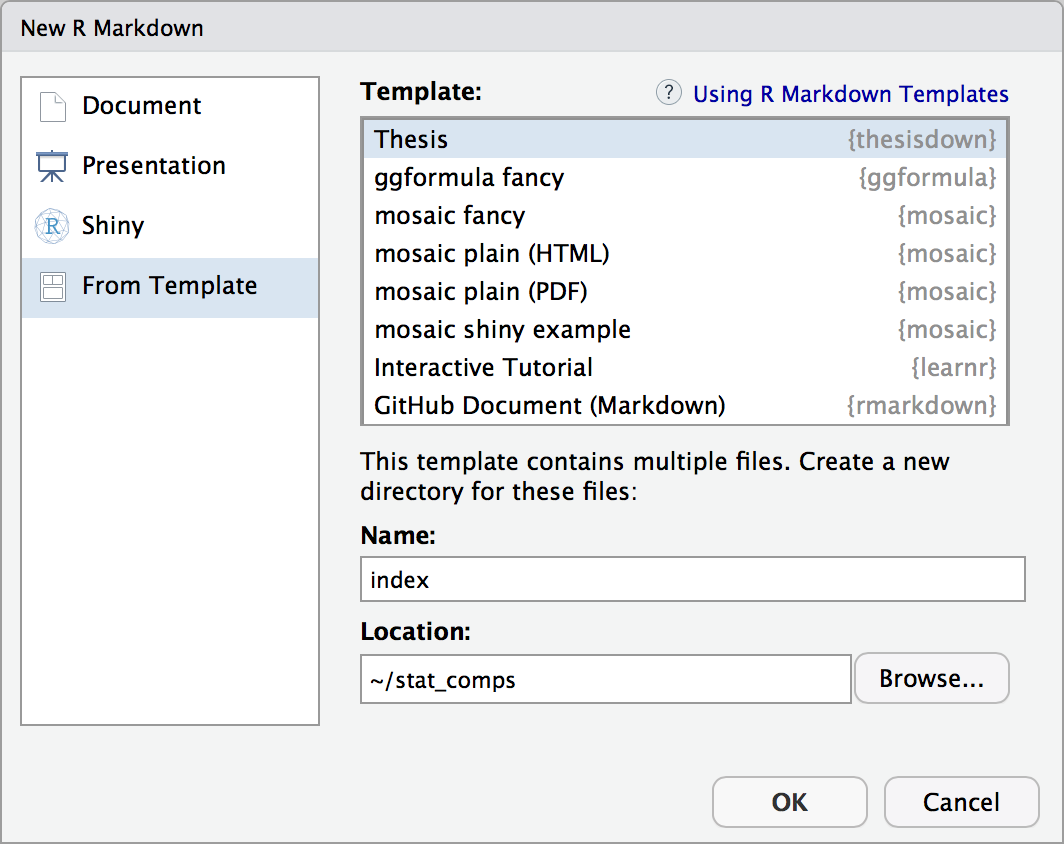
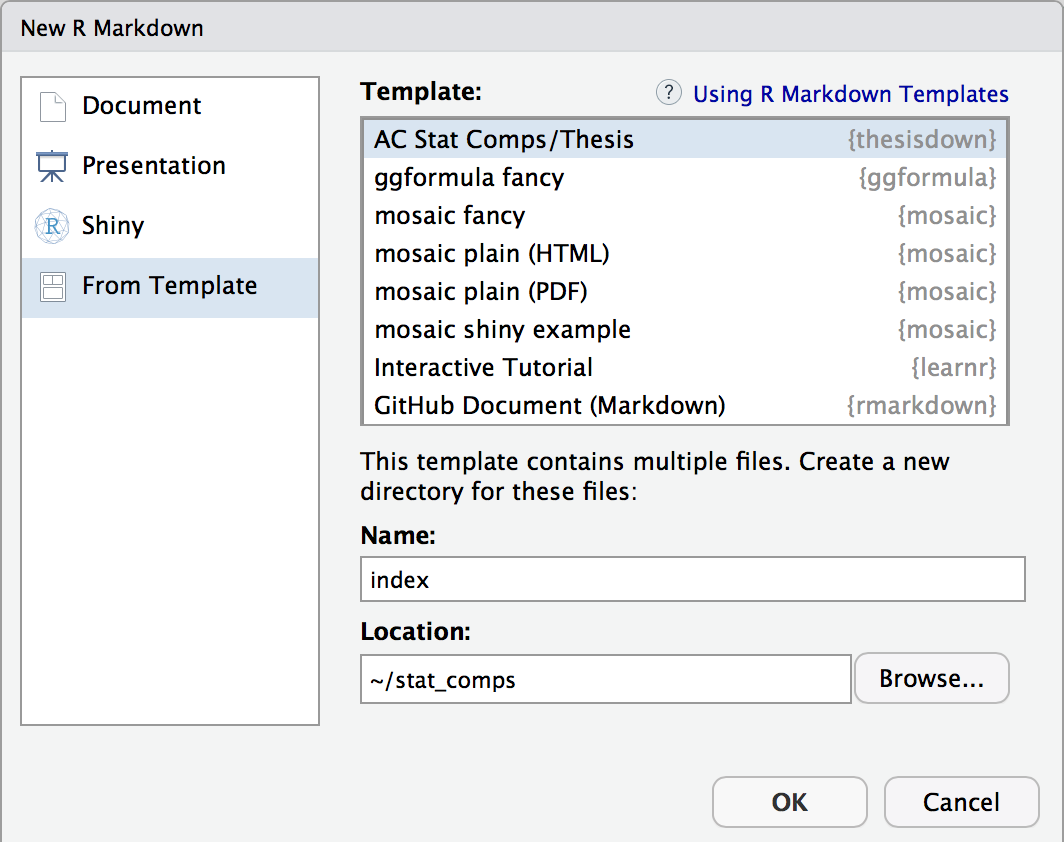
Fixed template name

diff --git a/README.md b/README.md
@@ -28,7 +28,7 @@ install.packages("bookdown")
 devtools::install_github("Amherst-Statistics/thesisdown")
 ```
 
-3. Use the **New R Markdown** dialog to select **Thesis** (note that this will currently only **Knit** if you name the directory `index` as shown below):
+3. Use the **New R Markdown** dialog to select **AC Stat Comps/Thesis** (note that this will currently only **Knit** if you name the directory `index` as shown below):
 
     ![New R Markdown](thesis_rmd.png)
     
